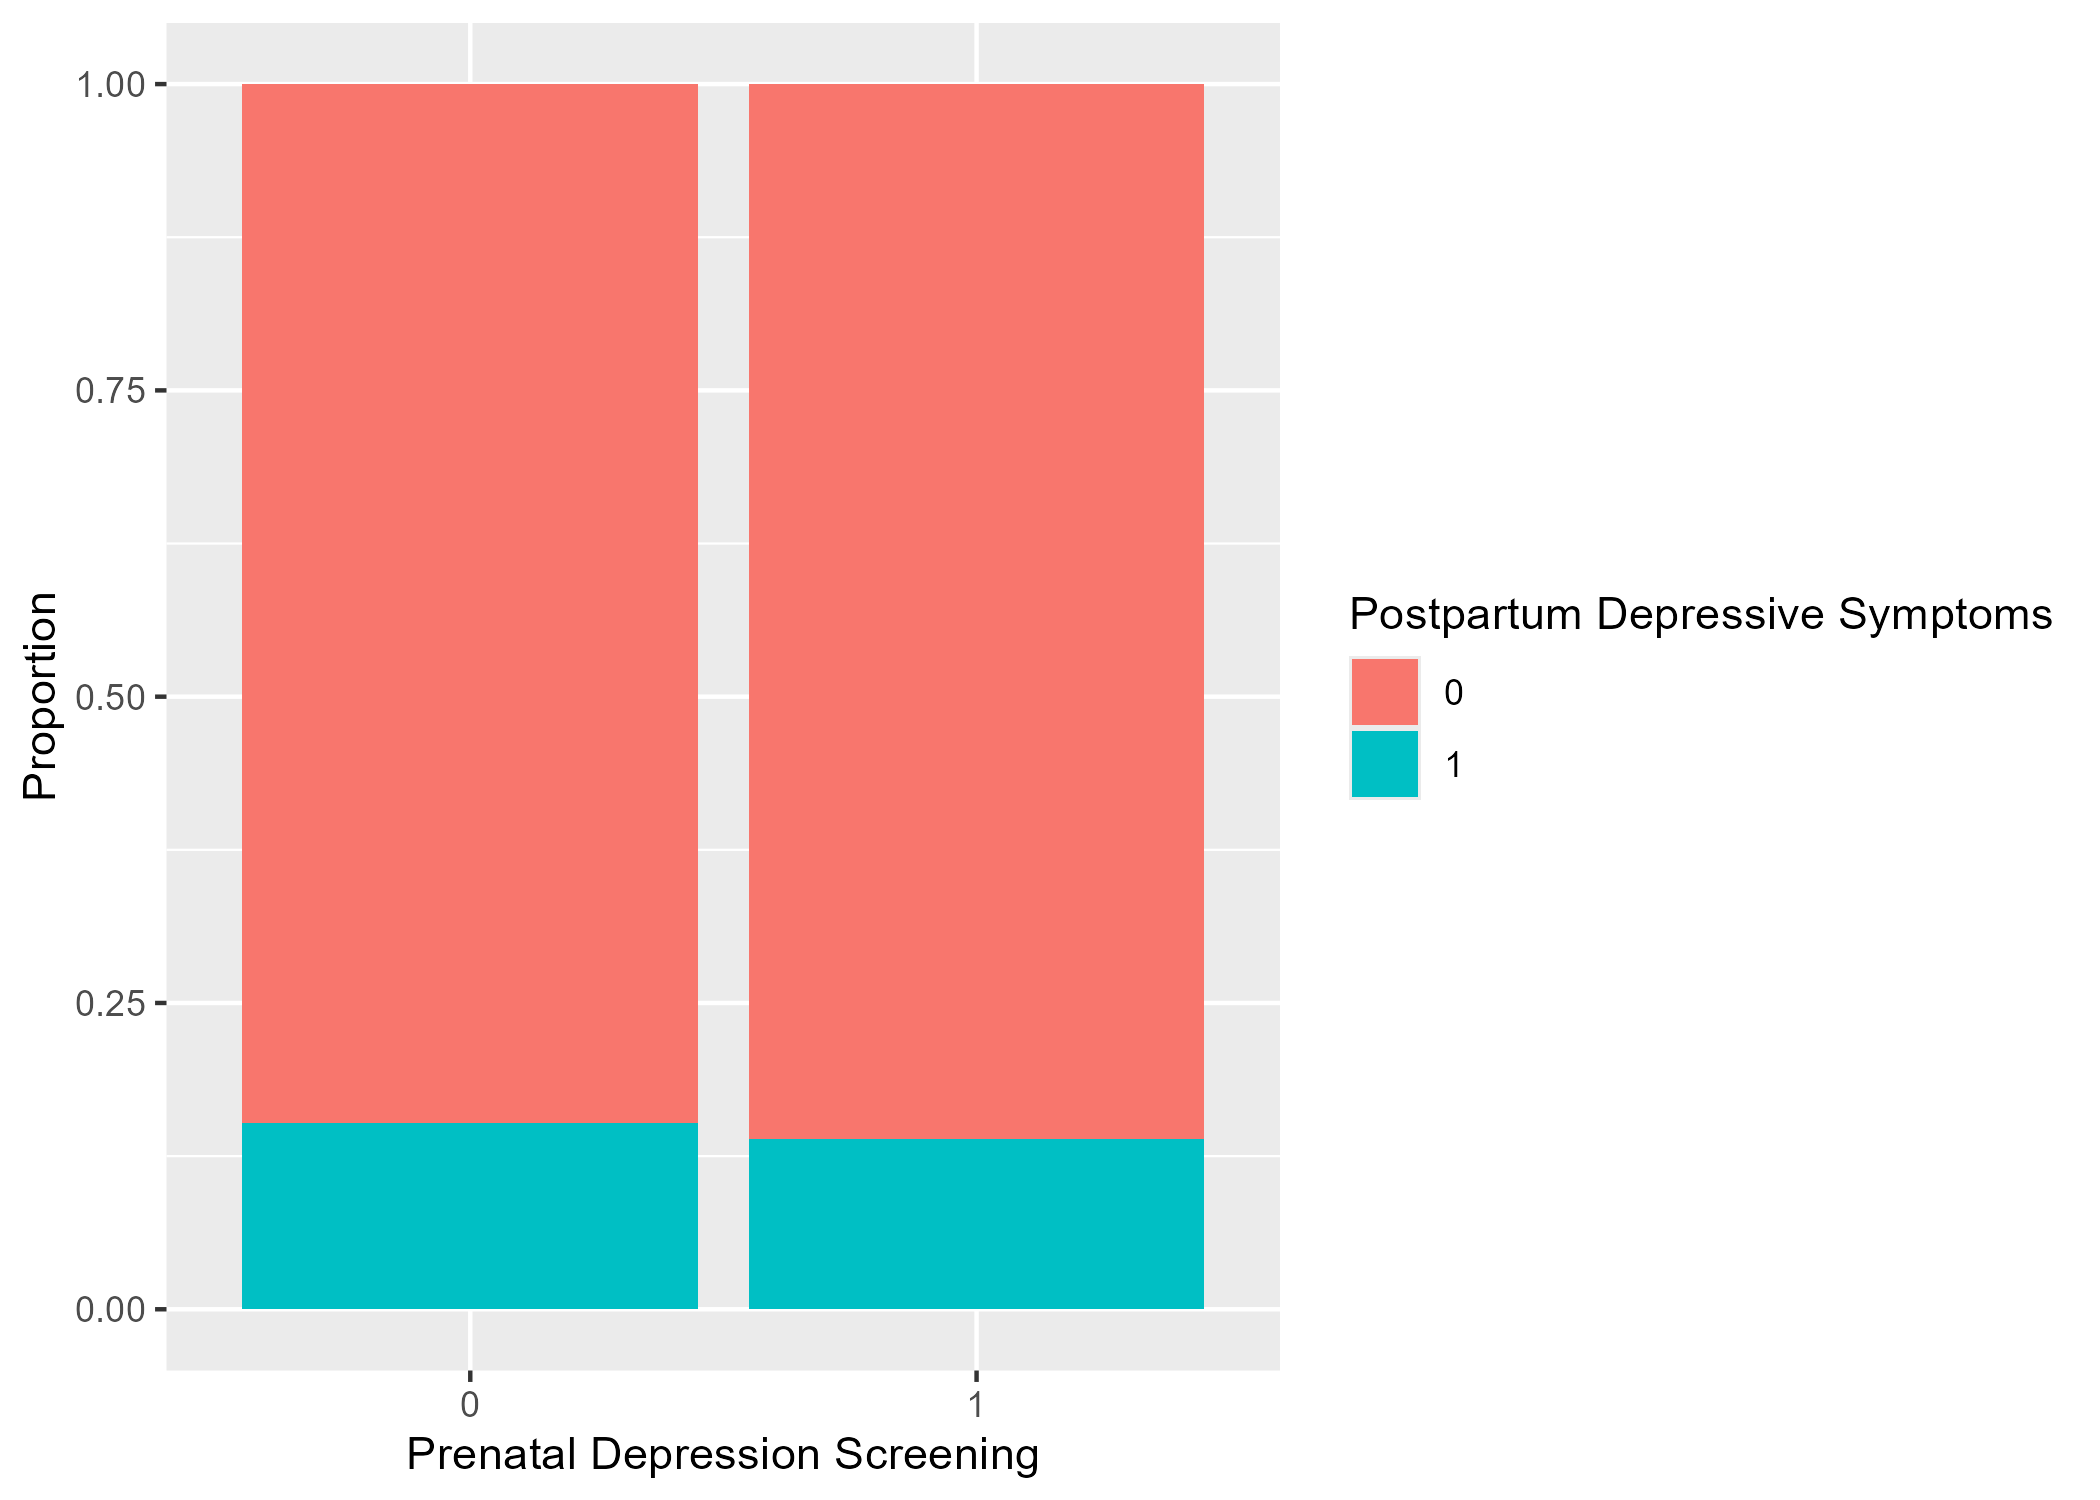
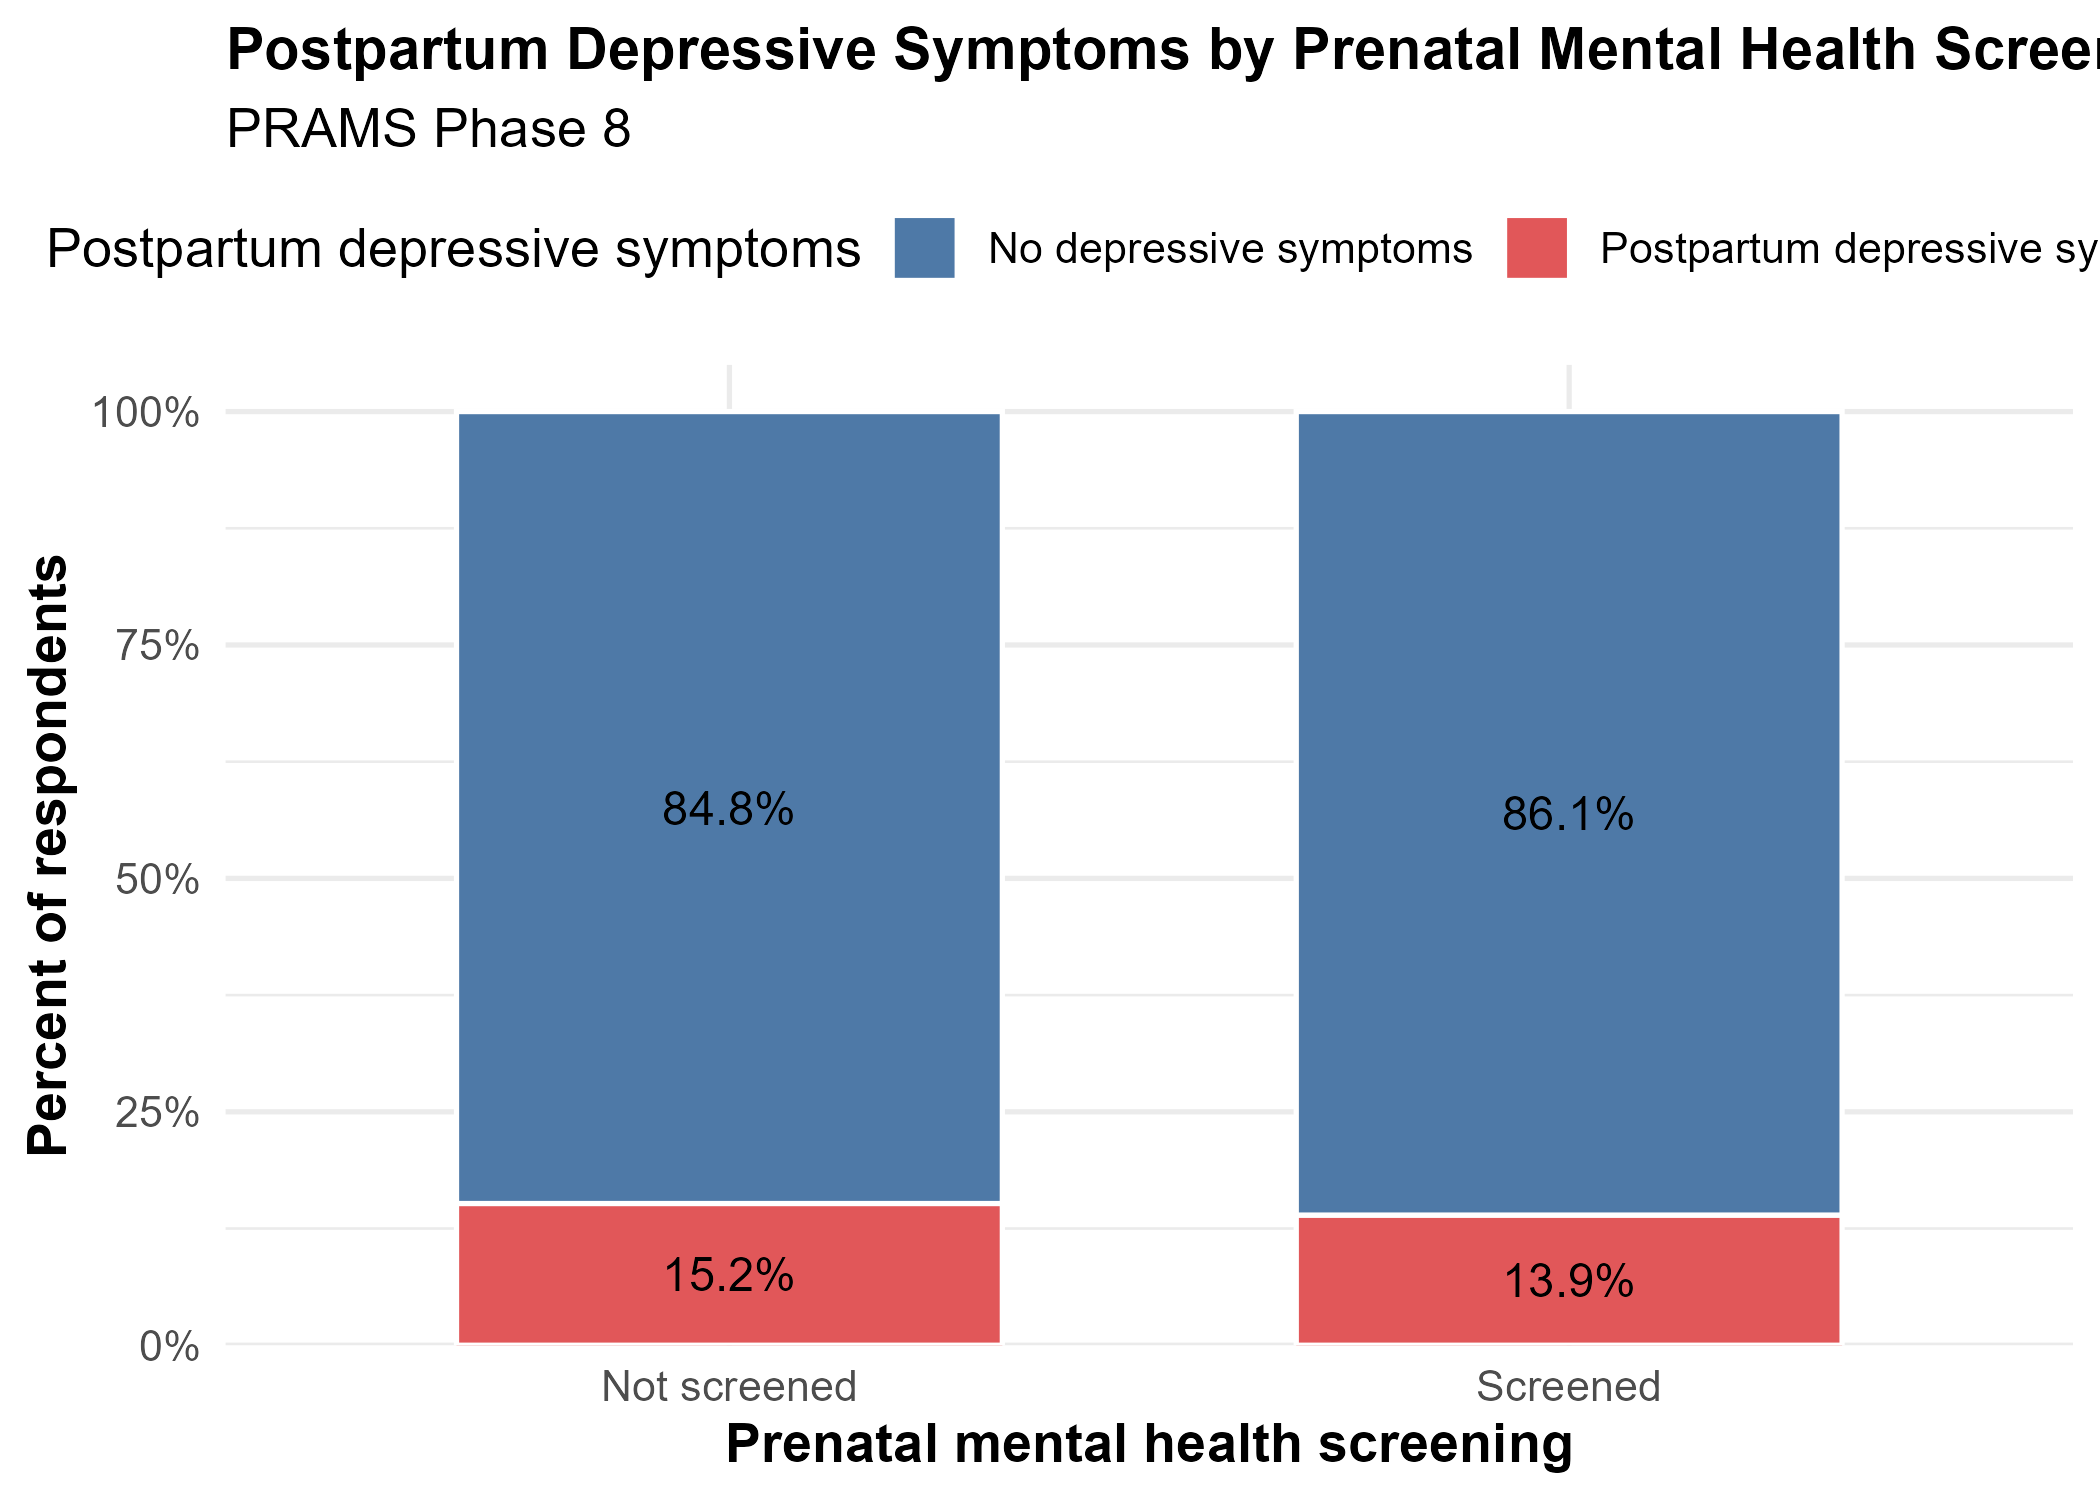
Update class project page with revised tables and figure

diff --git a/docs/class-project/index.html b/docs/class-project/index.html
@@ -319,10 +319,18 @@ The project uses PRAMS Phase 8 data to examine prenatal mental health screening 
 <div class="cell-output-display">
 <table class="caption-top table table-sm table-striped small">
 <caption>Table 1. Prenatal screening and postpartum depressive symptoms</caption>
+<colgroup>
+<col style="width: 12%">
+<col style="width: 25%">
+<col style="width: 41%">
+<col style="width: 9%">
+<col style="width: 10%">
+</colgroup>
 <thead>
 <tr class="header">
 <th style="text-align: right;">screened</th>
-<th style="text-align: right;">pp_depress_bin</th>
+<th style="text-align: left;">Prenatal screening</th>
+<th style="text-align: left;">Postpartum depressive symptoms</th>
 <th style="text-align: right;">n</th>
 <th style="text-align: right;">percent</th>
 </tr>
@@ -330,25 +338,29 @@ The project uses PRAMS Phase 8 data to examine prenatal mental health screening 
 <tbody>
 <tr class="odd">
 <td style="text-align: right;">0</td>
-<td style="text-align: right;">0</td>
+<td style="text-align: left;">Not screened</td>
+<td style="text-align: left;">No</td>
 <td style="text-align: right;">38048</td>
 <td style="text-align: right;">84.8</td>
 </tr>
 <tr class="even">
 <td style="text-align: right;">0</td>
-<td style="text-align: right;">1</td>
+<td style="text-align: left;">Not screened</td>
+<td style="text-align: left;">Yes</td>
 <td style="text-align: right;">6805</td>
 <td style="text-align: right;">15.2</td>
 </tr>
 <tr class="odd">
 <td style="text-align: right;">1</td>
-<td style="text-align: right;">0</td>
+<td style="text-align: left;">Screened</td>
+<td style="text-align: left;">No</td>
 <td style="text-align: right;">165745</td>
 <td style="text-align: right;">86.1</td>
 </tr>
 <tr class="even">
 <td style="text-align: right;">1</td>
-<td style="text-align: right;">1</td>
+<td style="text-align: left;">Screened</td>
+<td style="text-align: left;">Yes</td>
 <td style="text-align: right;">26794</td>
 <td style="text-align: right;">13.9</td>
 </tr>
